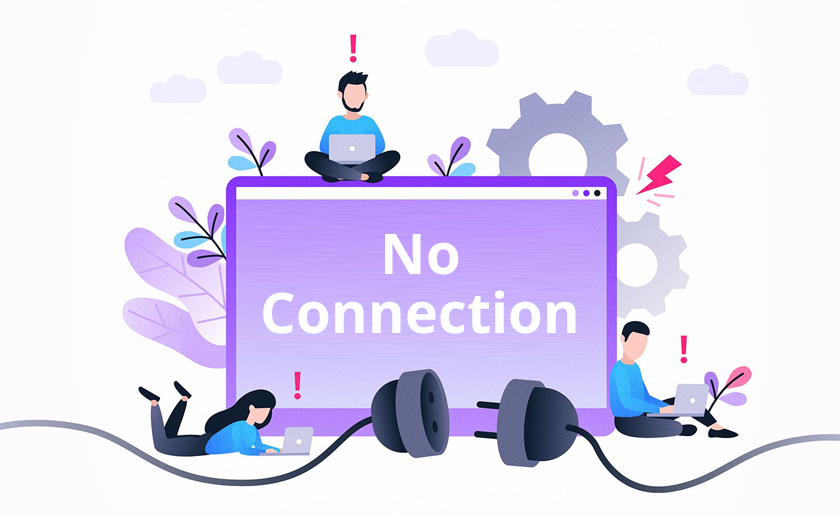
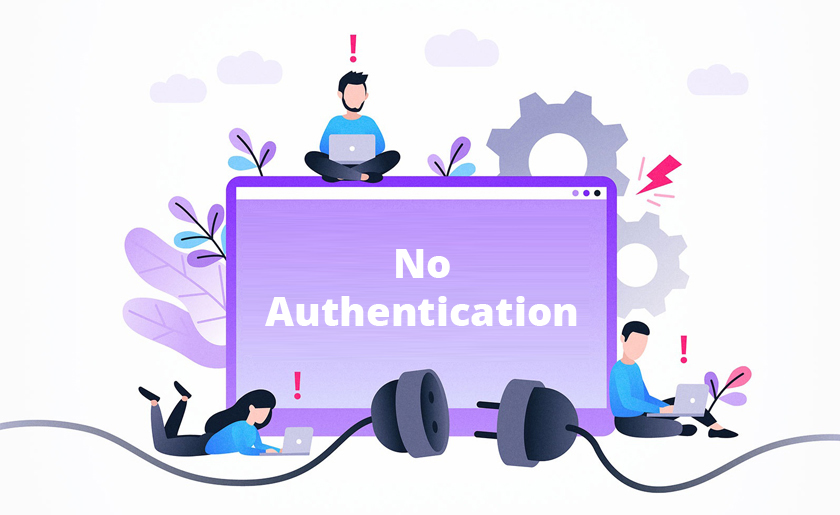
Refresh Token Process done

Changed region(s): [[0.3095, 0.435, 0.681, 0.6524]]

diff --git a/includes/core/wooconnection-common-functions.php b/includes/core/wooconnection-common-functions.php
@@ -43,22 +43,22 @@ function checkPluginActivatedNot(){
   //Get plugin details..
   $plugin_settings = get_option('wc_plugin_details');
   if(isset($plugin_settings) && !empty($plugin_settings)){
-    if(empty($plugin_settings['plugin_activation_status']) && $plugin_settings['plugin_activation_status'] != PLUGIN_ACTIVATED){
+    if(!empty($plugin_settings['plugin_activation_status']) && $plugin_settings['plugin_activation_status'] != PLUGIN_ACTIVATED){
        $leftMenusDisable = 'leftMenusDisable';
     }
   }else{
-    //$leftMenusDisable = 'leftMenusDisable';
+    $leftMenusDisable = 'leftMenusDisable';
   }
   return $leftMenusDisable; 
 }
 
 //Function is used to return the html when connection is not created with infusionsoft/keap application......
-function connectionApplicationStatus(){
-  //$applicationConnectionStatus = get_application_settings();
+function applicationAuthenticationStatus(){
+  $applicationAuthenticationStatus = getAuthenticationDetails();
   $notConnectedHtml = '';
-  // if(empty($applicationConnectionStatus['applicationname']) && empty($applicationConnectionStatus['applicationapikey'])){
-  //   $notConnectedHtml ='<center><img src="'.WOOCONNECTION_PLUGIN_URL.'assets/images/connection_fail.jpg" style="width: 100%;"/><br><br><p class="heading-text">To access this feature, First you need to create connection with infusionsoft/keap application by input the valid application name and api key in infusionsoft settings section of Getting started.</p>';  
-  // }
+  if(empty($applicationAuthenticationStatus)){
+    $notConnectedHtml ='<center><img src="'.WOOCONNECTION_PLUGIN_URL.'assets/images/connection_fail.jpg" style="width: 100%;"/><br><br><p class="heading-text">To access this feature, First you need to authorize infusionsoft/keap application by click on authorize button in infusionsoft settings section of Getting started.</p>';  
+  }
   return $notConnectedHtml;
 }
 
@@ -136,20 +136,27 @@ function getAuthenticationDetails(){
       }
   } 
   $url = ADMIN_REMOTE_URL.'authenticationManage.php';
-  $ch = curl_init($url);
-  curl_setopt($ch, CURLOPT_POST, 1);
-  curl_setopt($ch, CURLOPT_POSTFIELDS,
-            "postemail=".$email."&postkey=".$key."&posturl=".$website);
-  curl_setopt($ch, CURLOPT_RETURNTRANSFER, true);
-  $response = curl_exec($ch);
-  $err = curl_error($ch);
-  if($err){
+  if(!empty($email) && !empty($key)){
+      $ch = curl_init($url);
+      curl_setopt($ch, CURLOPT_POST, 1);
+      curl_setopt($ch, CURLOPT_POSTFIELDS,
+                "postemail=".$email."&postkey=".$key."&posturl=".$website);
+      curl_setopt($ch, CURLOPT_RETURNTRANSFER, true);
+      $response = curl_exec($ch);
+      $err = curl_error($ch);
+      if($err){
+      }else{
+       $sucessData = json_decode($response);
+       if(!empty($sucessData->authenticationDetails)){
+         $authenticationData = $sucessData->authenticationDetails;
+       }
+      }
+      return $authenticationData;
+      curl_close($ch);  
   }else{
-   $sucessData = json_decode($response);
-   $authenticationData = $sucessData->authenticationDetails;
+      return $authenticationData;
   }
-  return $authenticationData;
-  curl_close($ch);
+  
 }
 
 //Main function is used to generate the export products html.....

diff --git a/includes/admin/wooconnection_admin_campaign_goals.php b/includes/admin/wooconnection_admin_campaign_goals.php
@@ -10,7 +10,7 @@
 }
 </style>
 <!-- Campaign Goals SETUP-->
-<?php $checkConnectionStatus = connectionApplicationStatus(); ?>
+<?php $checkAuthenticationStatus = applicationAuthenticationStatus(); ?>
 <div class="info-header">
   <p>Configure Campaign Goals</p>
 </div>
@@ -18,7 +18,7 @@
 <span class="ajax_loader" style="display: none;"><img src="<?php echo WOOCONNECTION_PLUGIN_URL; ?>/assets/images/loader.gif"></span> 
   <div class="row">
     <div class="col-md-12 ">
-       <?php //if(empty($checkConnectionStatus)){?>
+       <?php if(empty($checkAuthenticationStatus)){?>
        <p class="text-right"><a class="btn btn-primary btn-theme" data-toggle="collapse" href="#collapseCampaignGoals" role="button" aria-expanded="false" aria-controls="collapseCampaignGoals">How is Works <i class="fa fa-caret-down" id="icon_collapseCampaignGoals" aria-hidden="true"></i></a></p>
         <div class="collapse" id="collapseCampaignGoals">
           <div class="card card-body col-md-12 m-b-40">
@@ -43,9 +43,9 @@
                 </tbody>
               </table>
           </div>
-        <?php //}else{
-                //echo $checkConnectionStatus;
-        //} ?>
+        <?php }else{
+              echo $checkAuthenticationStatus;
+        } ?>
       </div>
     </div>
 </div>

diff --git a/includes/admin/wooconnection_admin_import_products.php b/includes/admin/wooconnection_admin_import_products.php
@@ -1,4 +1,4 @@
-<?php $checkConnectionStatus = connectionApplicationStatus(); ?>
+<?php $checkAuthenticationStatus = applicationAuthenticationStatus(); ?>
 <div class="info-header">
     <p>Import/Export Products</p>
 </div>
@@ -6,6 +6,7 @@
 	<span class="ajax_loader" style="display: none;"><img src="<?php echo WOOCONNECTION_PLUGIN_URL; ?>/assets/images/loader.gif"></span>  
 	<div class="row">
 	    <div class="col-md-12 ">
+	    	<?php if(empty($checkAuthenticationStatus)){?>
 		  	<p class="heading-text">
 		      	<p class="heading-text">Lorem Ipsum is simply dummy text of the printing and typesetting industry.Lorem Ipsum is simply dummy text of the printing and typesetting industry.<br/>
 		        <br/>
@@ -30,6 +31,9 @@
 					</div>
 		        </div>
 	        </div>
+	        <?php }else{
+	              echo $checkAuthenticationStatus;
+	        } ?>
 	    </div>
 	</div>
 </div>

diff --git a/includes/core/wooconnection-entities.php b/includes/core/wooconnection-entities.php
@@ -24,7 +24,7 @@
 	//Plugin Activation status : Not Activated..
 	define("PLUGIN_NOT_ACTIVATED", 2);
 	//Plugin Activation Remote url
-	define("ADMIN_REMOTE_URL", "http://localhost/wooconnectionofficial/");
+	define("ADMIN_REMOTE_URL", "https://tqmstaging.com/wooconnection/");
 	//Plugin Activation Request Type
 	define("ACTIVATION_REQUEST_TYPE", "activation");
 	//Plugin Activation Product Id...
